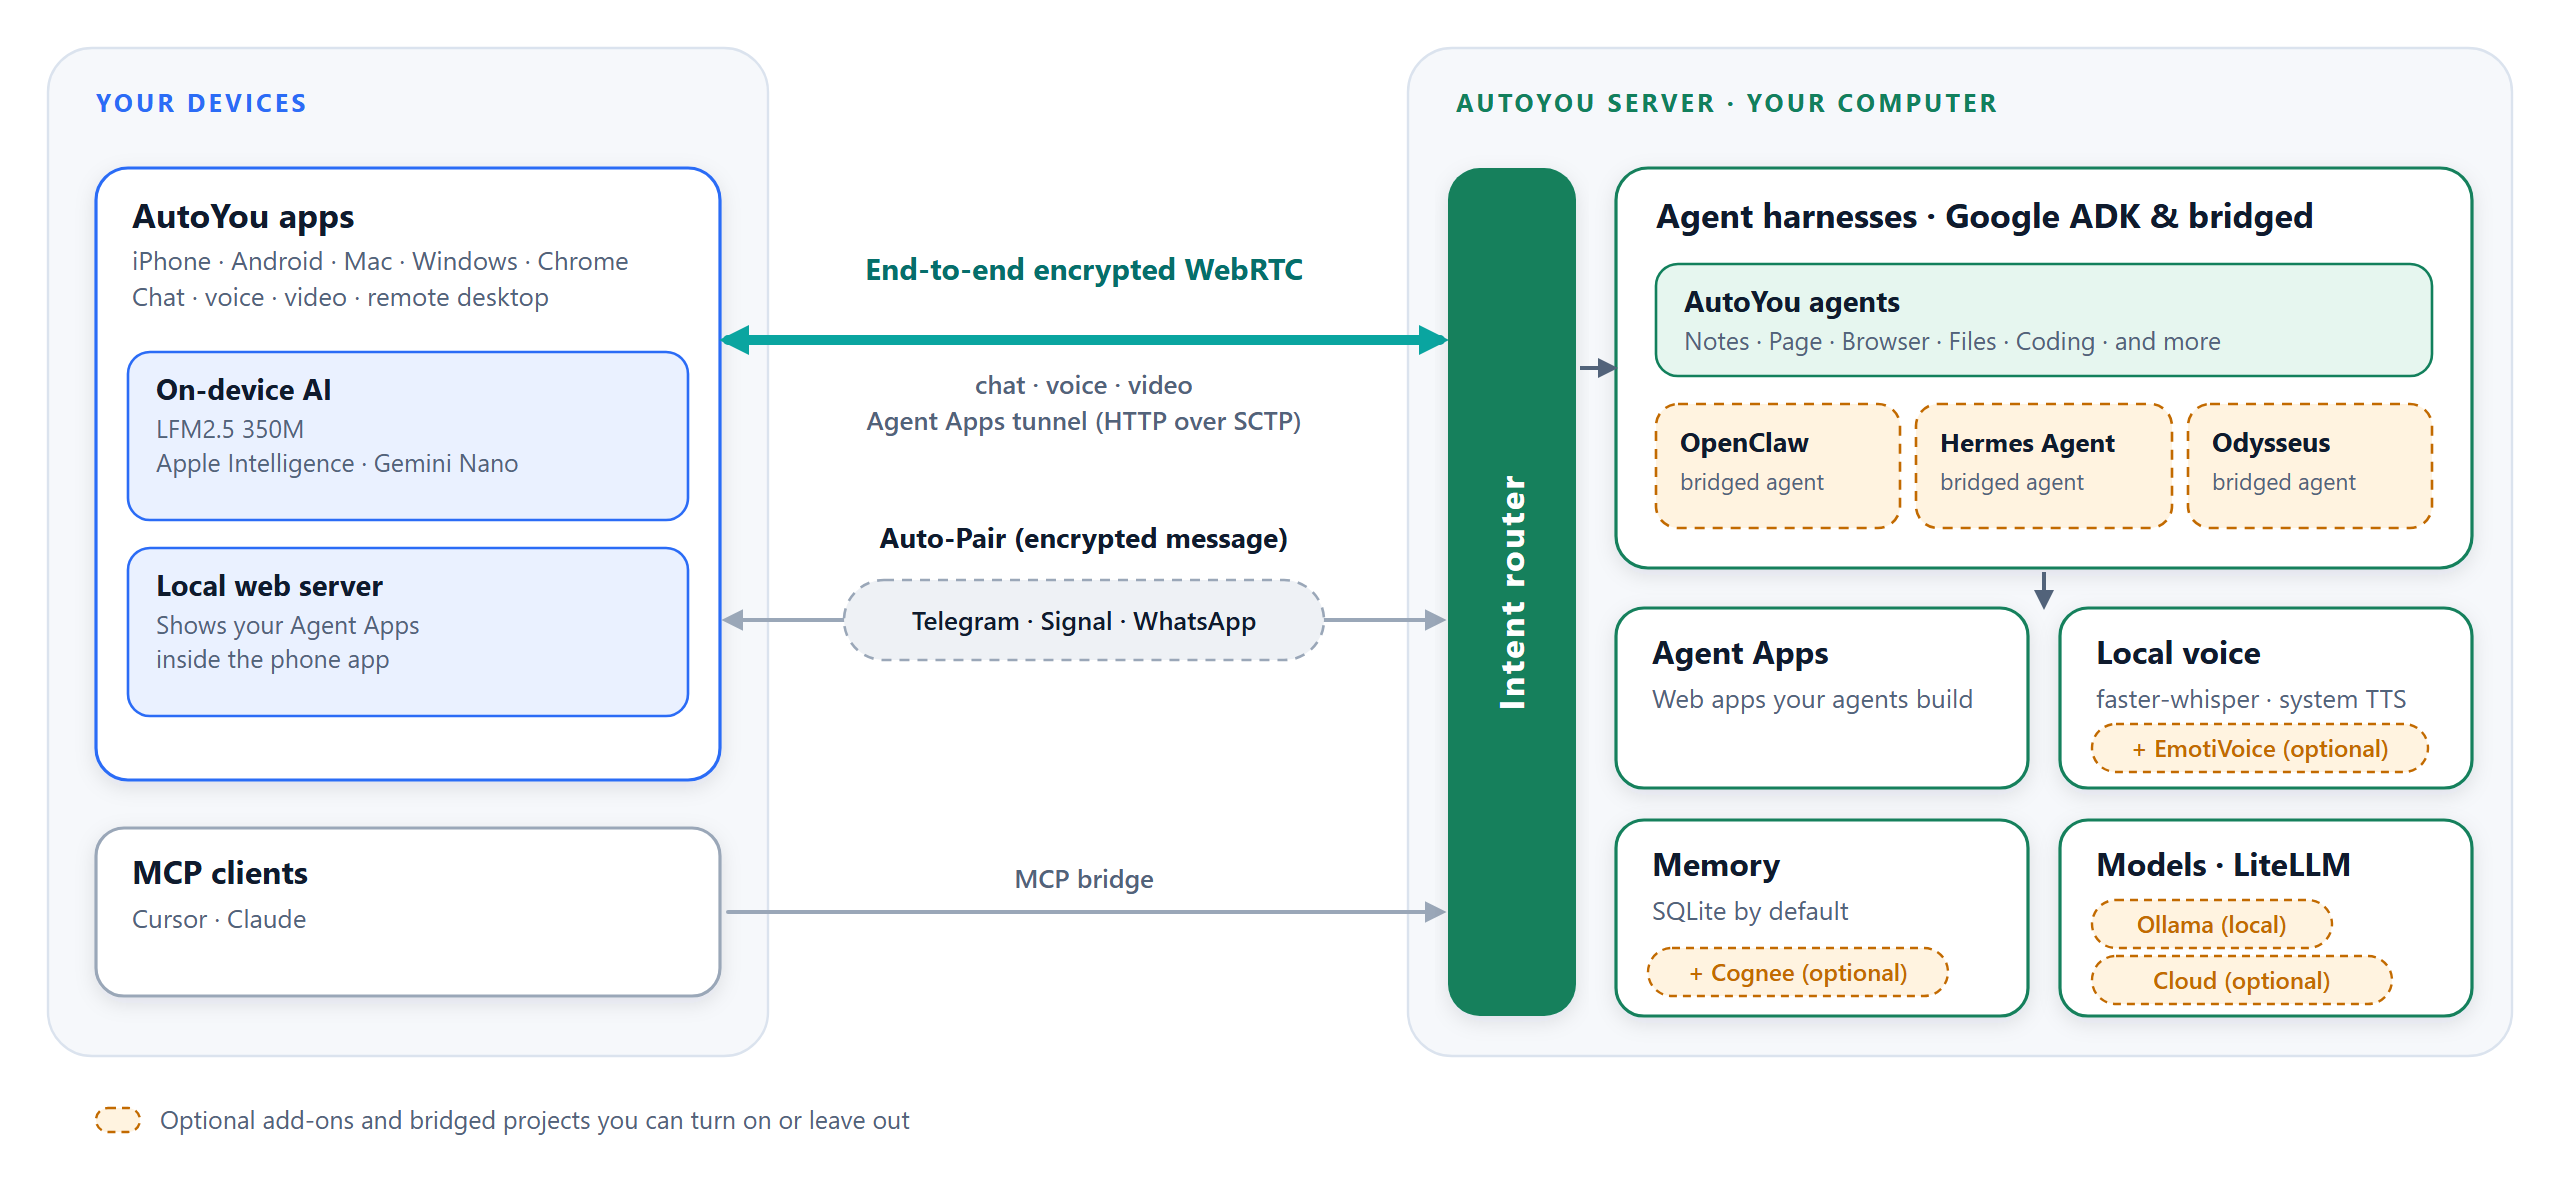
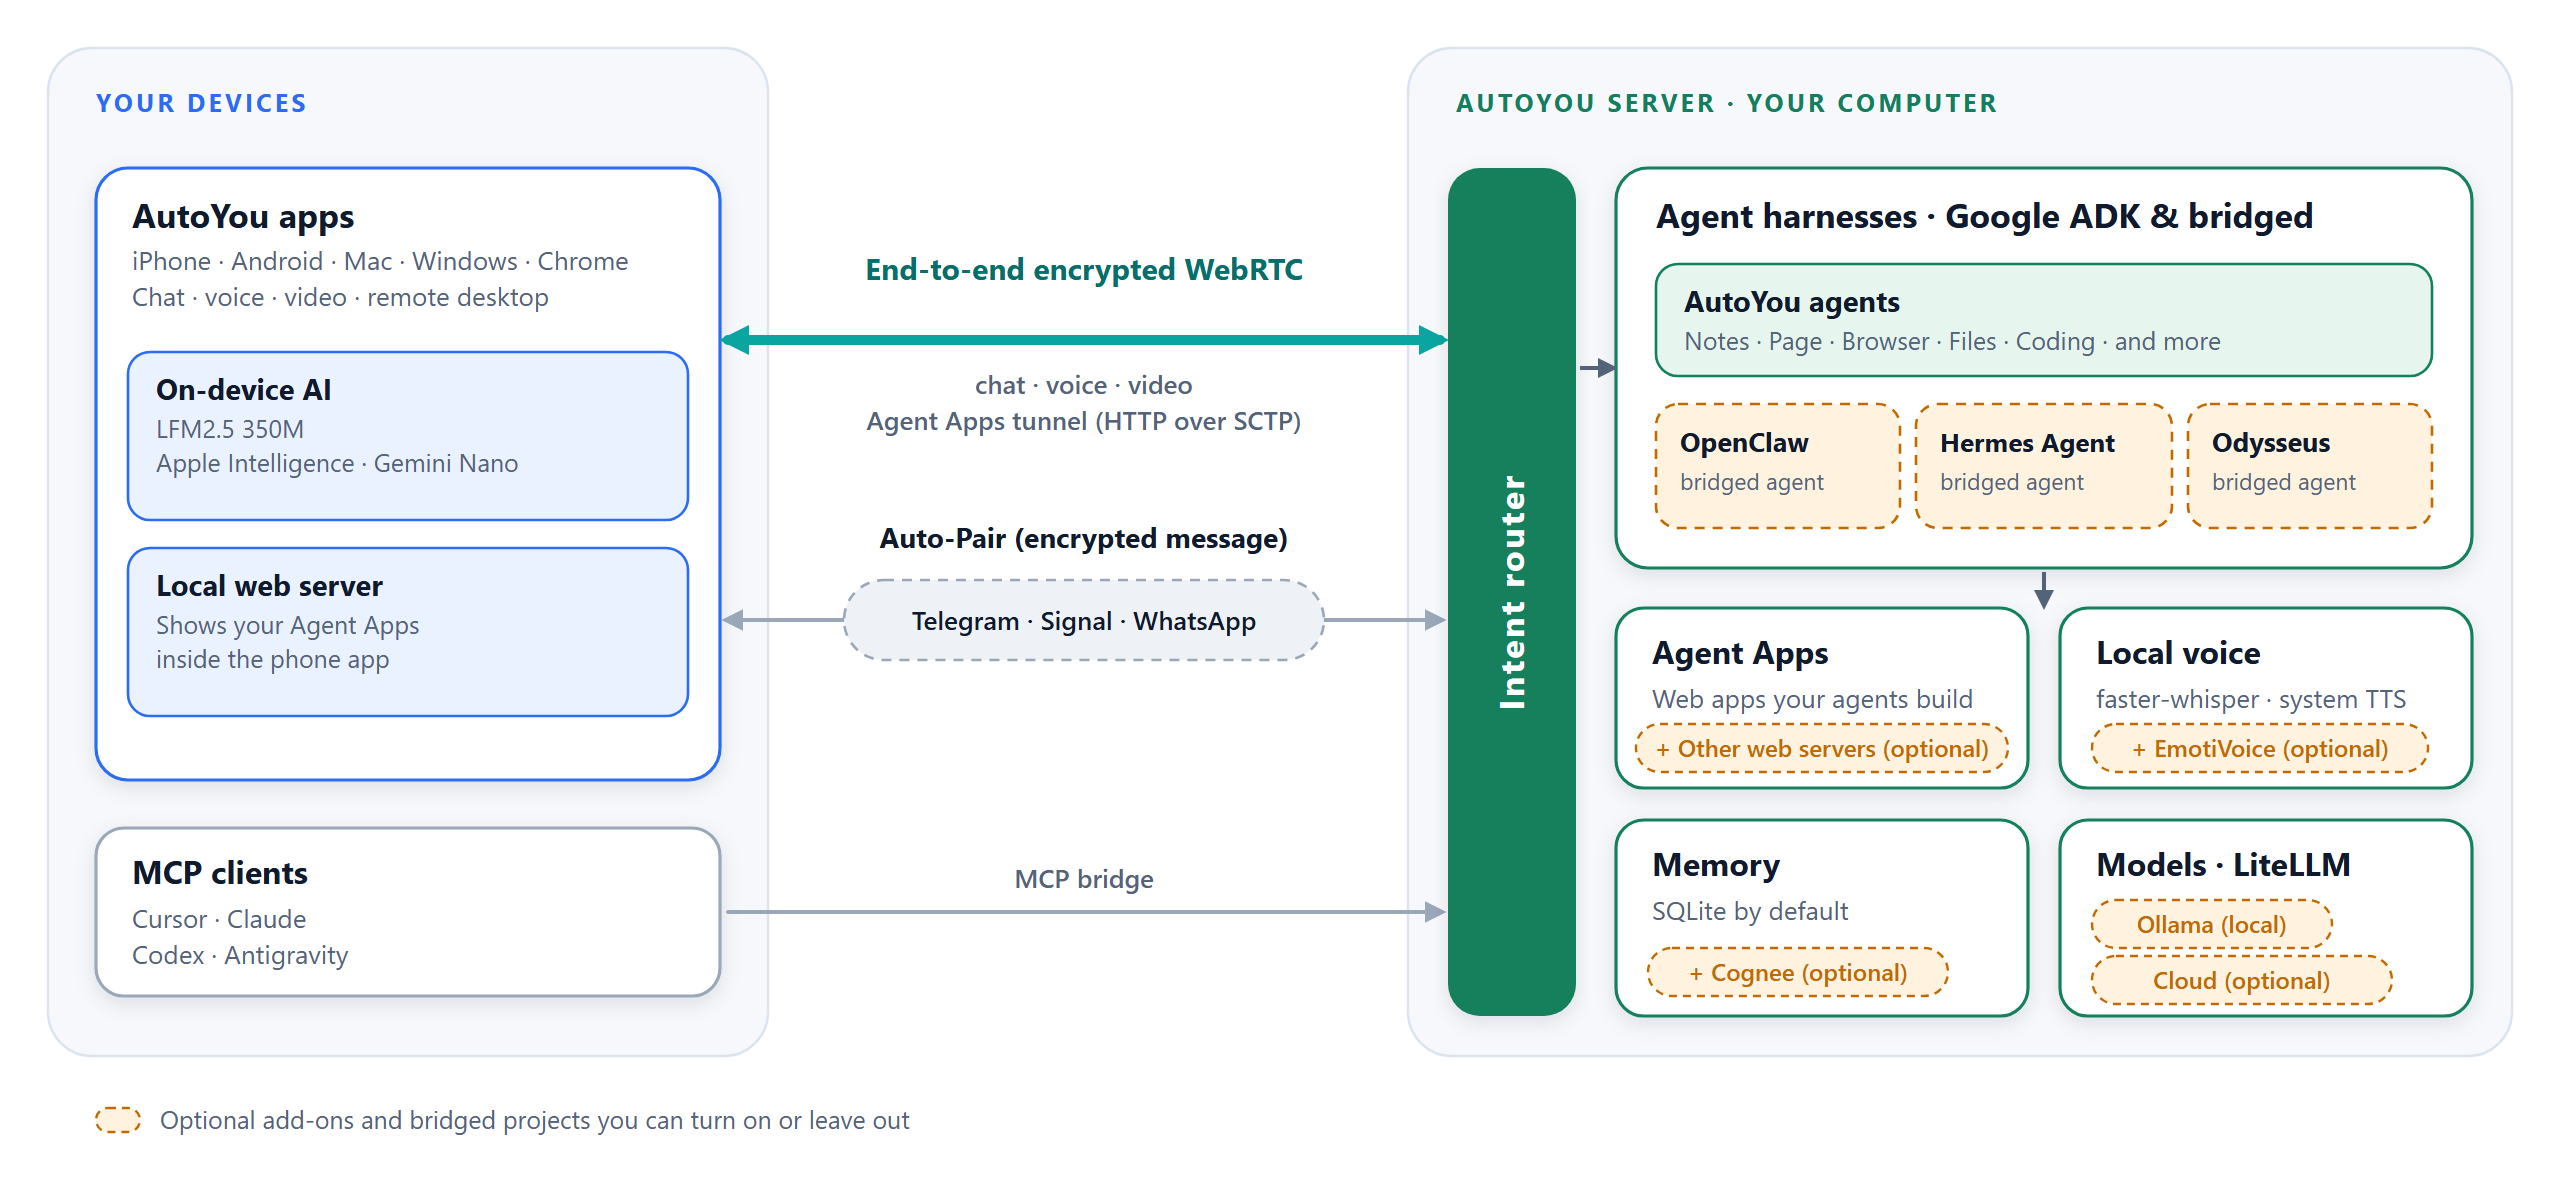
docs(architecture): add Codex and Antigravity MCP clients and optional web servers badge

Changed region(s): [[0.625, 0.6102, 0.7812, 0.6712], [0.0625, 0.7932, 0.125, 0.8237]]

diff --git a/scripts/build_architecture_diagram.py b/scripts/build_architecture_diagram.py
@@ -75,9 +75,10 @@ def build(theme: str) -> str:
     add('<title id="t">AutoYou architecture</title>')
     add('<desc id="d">Your phone, laptop and browser connect to the AutoYou Server on your own computer over an '
         'end-to-end encrypted WebRTC link. Telegram, Signal or WhatsApp carry the encrypted Auto-Pair message. '
+        'MCP clients (Cursor, Claude, Codex, Antigravity) connect through the MCP bridge. '
         'The server connects different agent harnesses—Google ADK runs the native AutoYou agents, alongside bridged '
-        'harnesses for OpenClaw, Hermes Agent, and Odysseus, with Agent Apps, local voice, memory and models through '
-        'LiteLLM to Ollama or optional cloud providers.</desc>')
+        'harnesses for OpenClaw, Hermes Agent, and Odysseus—with Agent Apps (and other optional web servers), '
+        'local voice, memory and models through LiteLLM to Ollama or optional cloud providers.</desc>')
     add('<defs>'
         f'<filter id="shadow" x="-10%" y="-10%" width="120%" height="130%"><feDropShadow dx="0" dy="3" stdDeviation="5" flood-color="{c["shadow"]}"/></filter>'
         f'<marker id="arr" viewBox="0 0 10 10" refX="7" refY="5" markerUnits="userSpaceOnUse" markerWidth="15" markerHeight="15" orient="auto-start-reverse"><path d="M0 0 L10 5 L0 10 z" fill="{c["teal"]}"/></marker>'
@@ -101,7 +102,7 @@ def build(theme: str) -> str:
     chip(64, 274, 280, 84, "Local web server", ["Shows your Agent Apps", "inside the phone app"], c["blue"], c["blue_bg"])
 
     # left: MCP clients
-    card(48, 414, 312, 84, "MCP clients", ["Cursor · Claude"], c["gray_stroke"])
+    card(48, 414, 312, 84, "MCP clients", ["Cursor · Claude", "Codex · Antigravity"], c["gray_stroke"])
 
     # middle connectors
     # WebRTC (thick)
@@ -132,6 +133,7 @@ def build(theme: str) -> str:
 
     # services 2x2
     card(808, 304, 206, 90, "Agent Apps", ["Web apps your agents build"], c["green"])
+    badge(818, 362, 186, "+ Other web servers (optional)")
     card(1030, 304, 206, 90, "Local voice", ["faster-whisper · system TTS"], c["green"])
     badge(1046, 362, 168, "+ EmotiVoice (optional)")
     card(808, 410, 206, 98, "Memory", ["SQLite by default"], c["green"])

diff --git a/README.md b/README.md
@@ -61,7 +61,7 @@ No network port-forwarding gymnastics. No forced cloud telemetry. Your data stay
 
 ## Your one-stop devserver: Build apps & cut token costs
 
-When building AI applications, specialized agents, or web frontends with tools like Cursor, Claude, or ChatGPT, developers often waste tens of thousands of tokens prompting LLMs to generate standard plumbing—WebRTC signaling, session auth, encrypted keystores, SQLite memory pools, audio streaming pipelines, and secure mobile tunneling.
+When building AI applications, specialized agents, or web frontends with tools like Cursor, Claude, Codex, Antigravity, or ChatGPT, developers often waste tens of thousands of tokens prompting LLMs to generate standard plumbing—WebRTC signaling, session auth, encrypted keystores, SQLite memory pools, audio streaming pipelines, and secure mobile tunneling.
 
 **AutoYou Server already has all of this built, integrated, and verified out of the box.**
 
@@ -79,7 +79,7 @@ When building AI applications, specialized agents, or web frontends with tools l
 | **Local Intent Router** | High-speed, on-device classifier routing commands locally without external network calls. |
 | **Real-time Voice & Video** | Full WebRTC media engine, fast STT (Whisper), neural TTS, and room call presence. |
 | **Browser & Web Agents** | Headless browser execution via Playwright for autonomous research and web automation. |
-| **Model Context Protocol** | Built-in MCP bridge allowing Claude, Cursor, and IDE tools to tap directly into server agents. |
+| **Model Context Protocol** | Built-in MCP bridge allowing Cursor, Claude, Codex, Antigravity, and IDE tools to tap directly into server agents. |
 | **Messaging Connectors** | Owner-controlled Telegram, Signal, and WhatsApp companion services. |
 | **P2P Encrypted Peer Link** | Libsodium-encrypted data channels for remote pairing without exposing open router ports. |
 | **Admin Console & Workbench** | Single-page local UI for real-time monitoring, agent configuration, and live camera/audio feeds. |
@@ -184,13 +184,15 @@ the current dependency review.
 
 <picture>
   <source media="(prefers-color-scheme: dark)" srcset="docs/images/architecture-dark.png">
-  <img src="docs/images/architecture-light.png" alt="AutoYou architecture: your apps connect to the AutoYou Server on your own computer over an end-to-end encrypted WebRTC link, with Auto-Pair messages carried by Telegram, Signal or WhatsApp. The server's intent router connects different agent harnesses—Google ADK runs the native AutoYou agents, alongside bridged harnesses for OpenClaw, Hermes Agent, and Odysseus—alongside Agent Apps, local voice, memory and models through LiteLLM to Ollama or optional cloud providers." width="100%">
+  <img src="docs/images/architecture-light.png" alt="AutoYou architecture: your apps connect to the AutoYou Server on your own computer over an end-to-end encrypted WebRTC link, with Auto-Pair messages carried by Telegram, Signal or WhatsApp. MCP clients (Cursor, Claude, Codex, Antigravity) connect through the MCP bridge. The server's intent router connects different agent harnesses—Google ADK runs the native AutoYou agents, alongside bridged harnesses for OpenClaw, Hermes Agent, and Odysseus—alongside Agent Apps (and other optional web servers), local voice, memory and models through LiteLLM to Ollama or optional cloud providers." width="100%">
 </picture>
 
 - **Pair.** Auto-Pair exchanges an encrypted pairing message through a Telegram, Signal or WhatsApp workflow
   you set up, or over your local network.
 - **Connect.** Your apps reach the server over an end-to-end encrypted WebRTC link for chat, voice and video.
-  Agent Apps ride the same link as HTTP over the SCTP data channel to a small web server inside the phone app.
+  Native MCP clients (Cursor, Claude, Codex, Antigravity) connect directly through the local MCP bridge.
+  Agent Apps ride the same link as HTTP over the SCTP data channel to a small web server inside the phone app,
+  alongside optional other web servers.
 - **Think.** The unified intent router connects different agent harnesses: Google ADK powers the native
   AutoYou agents, while bridged harnesses integrate OpenClaw, Hermes Agent, and Odysseus. LiteLLM routes
   model calls locally to Ollama on your machine or to optional cloud providers.
